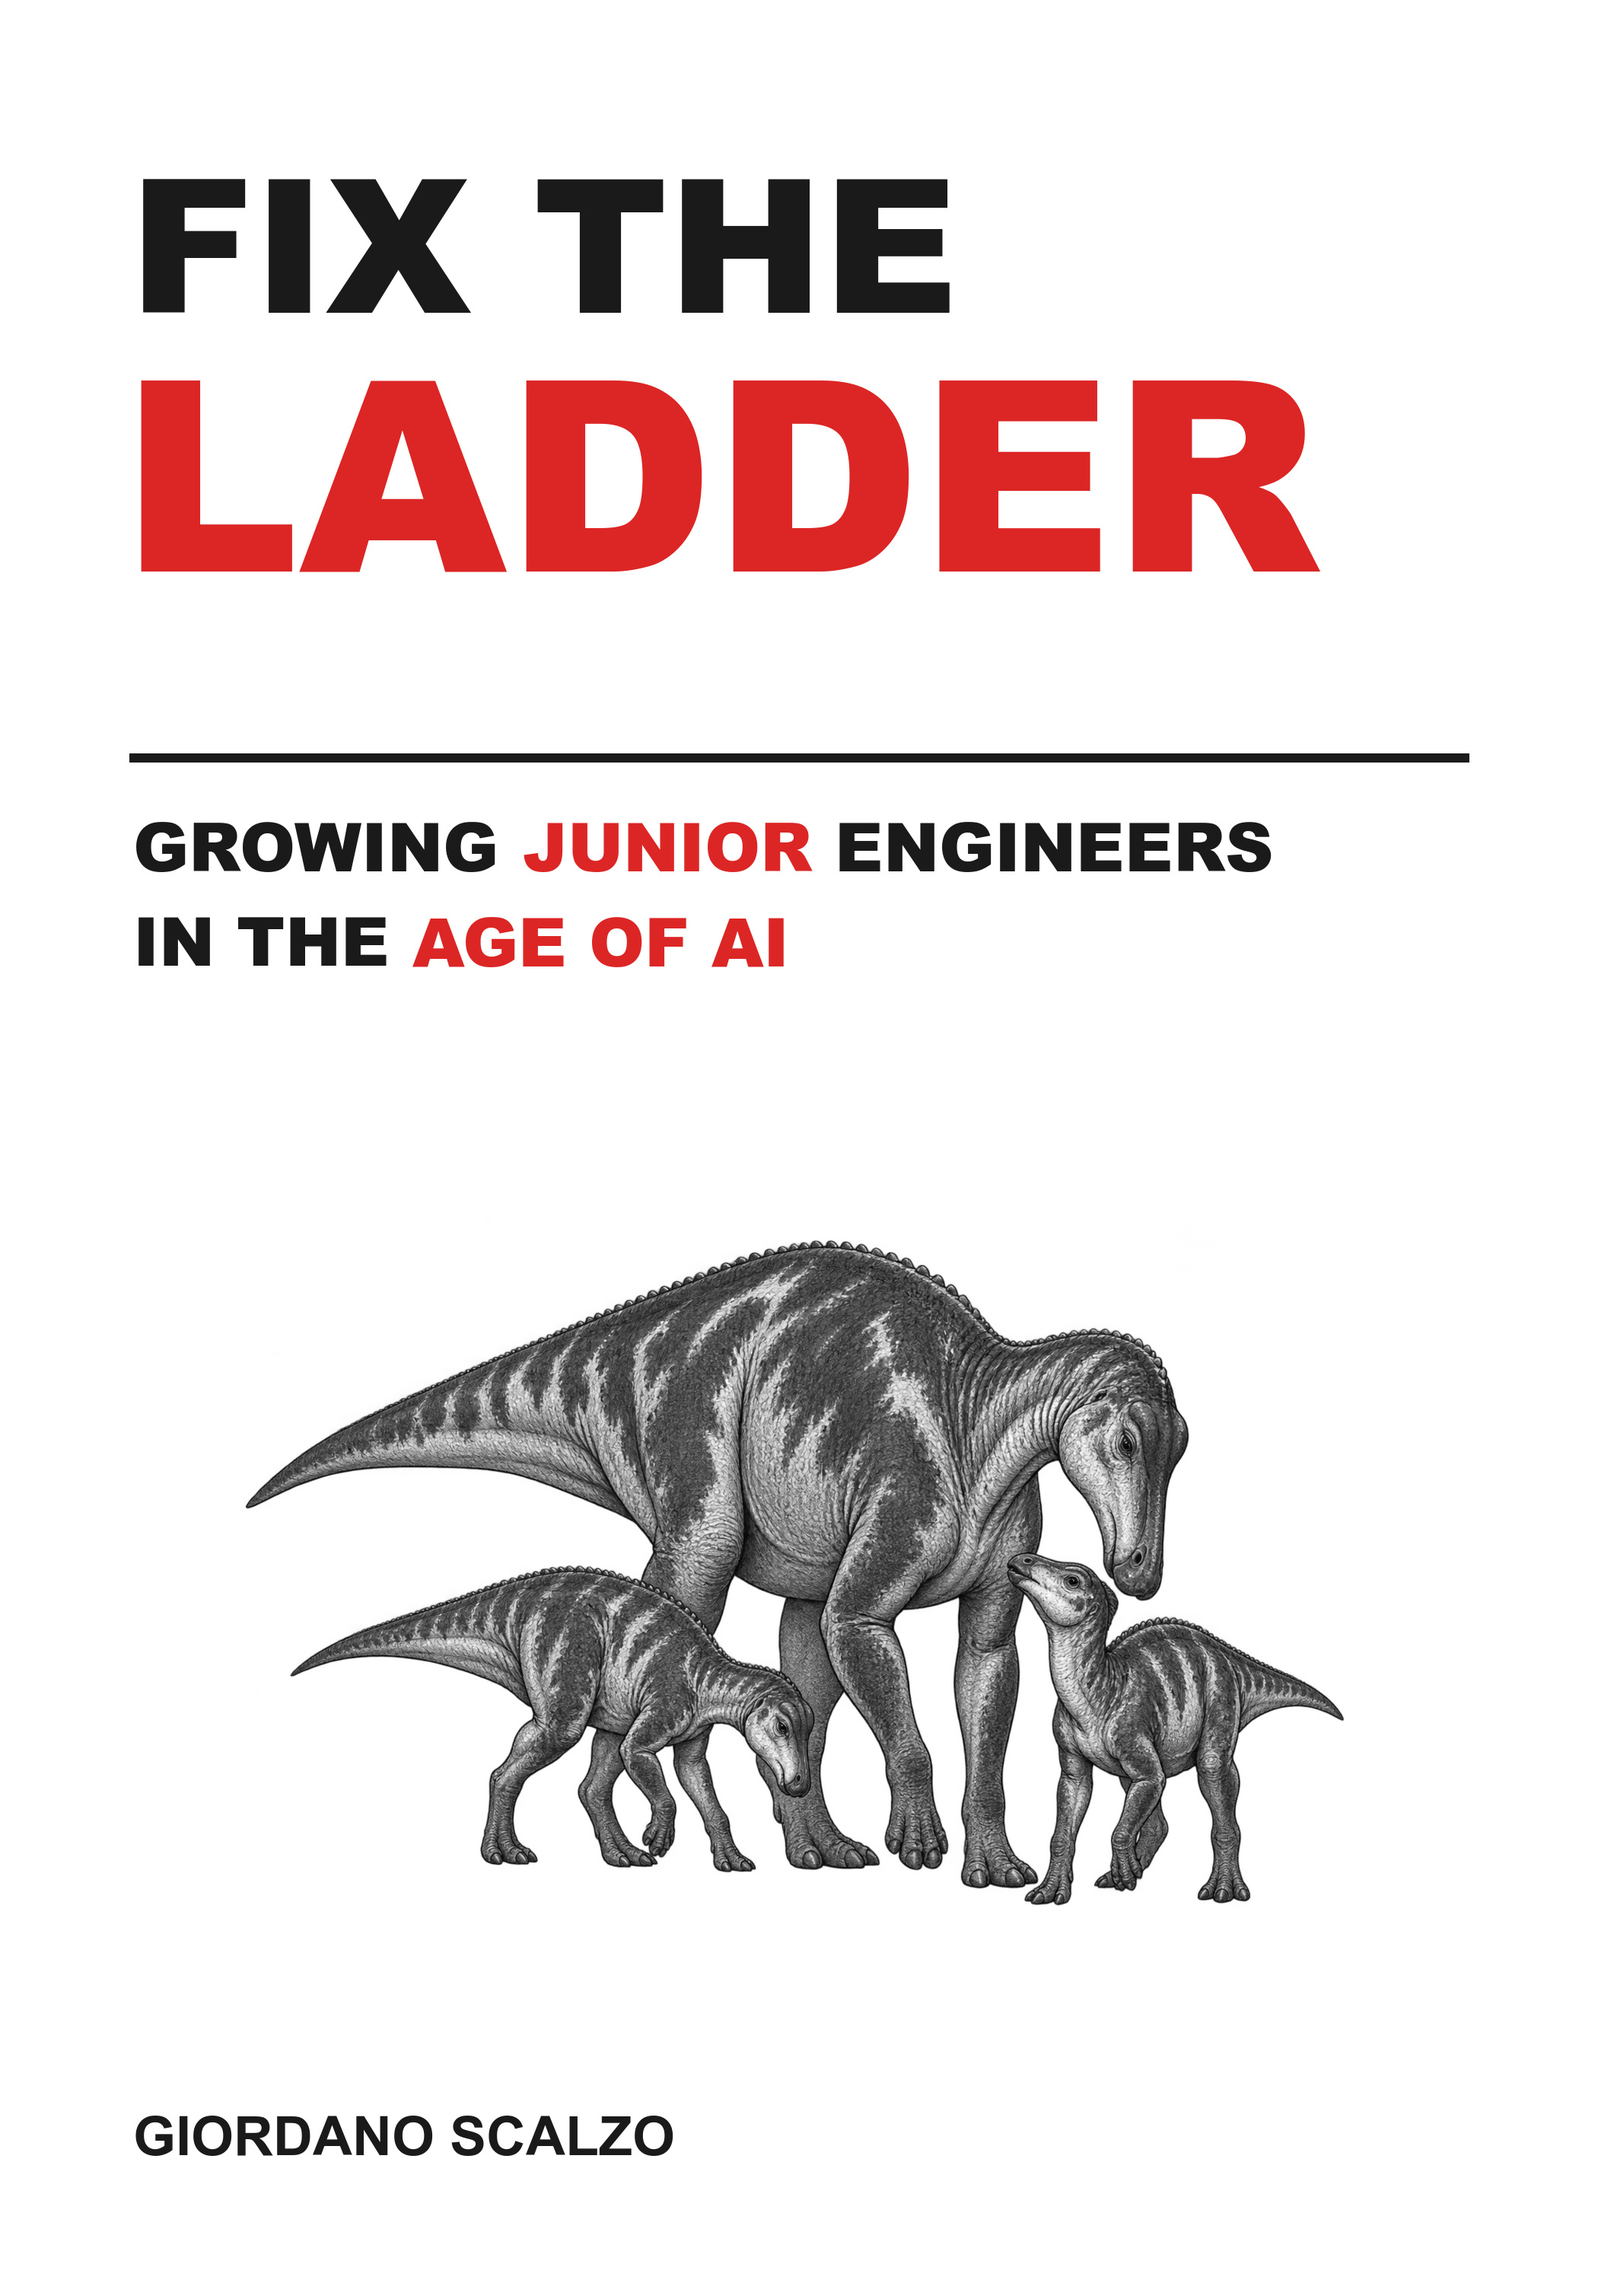
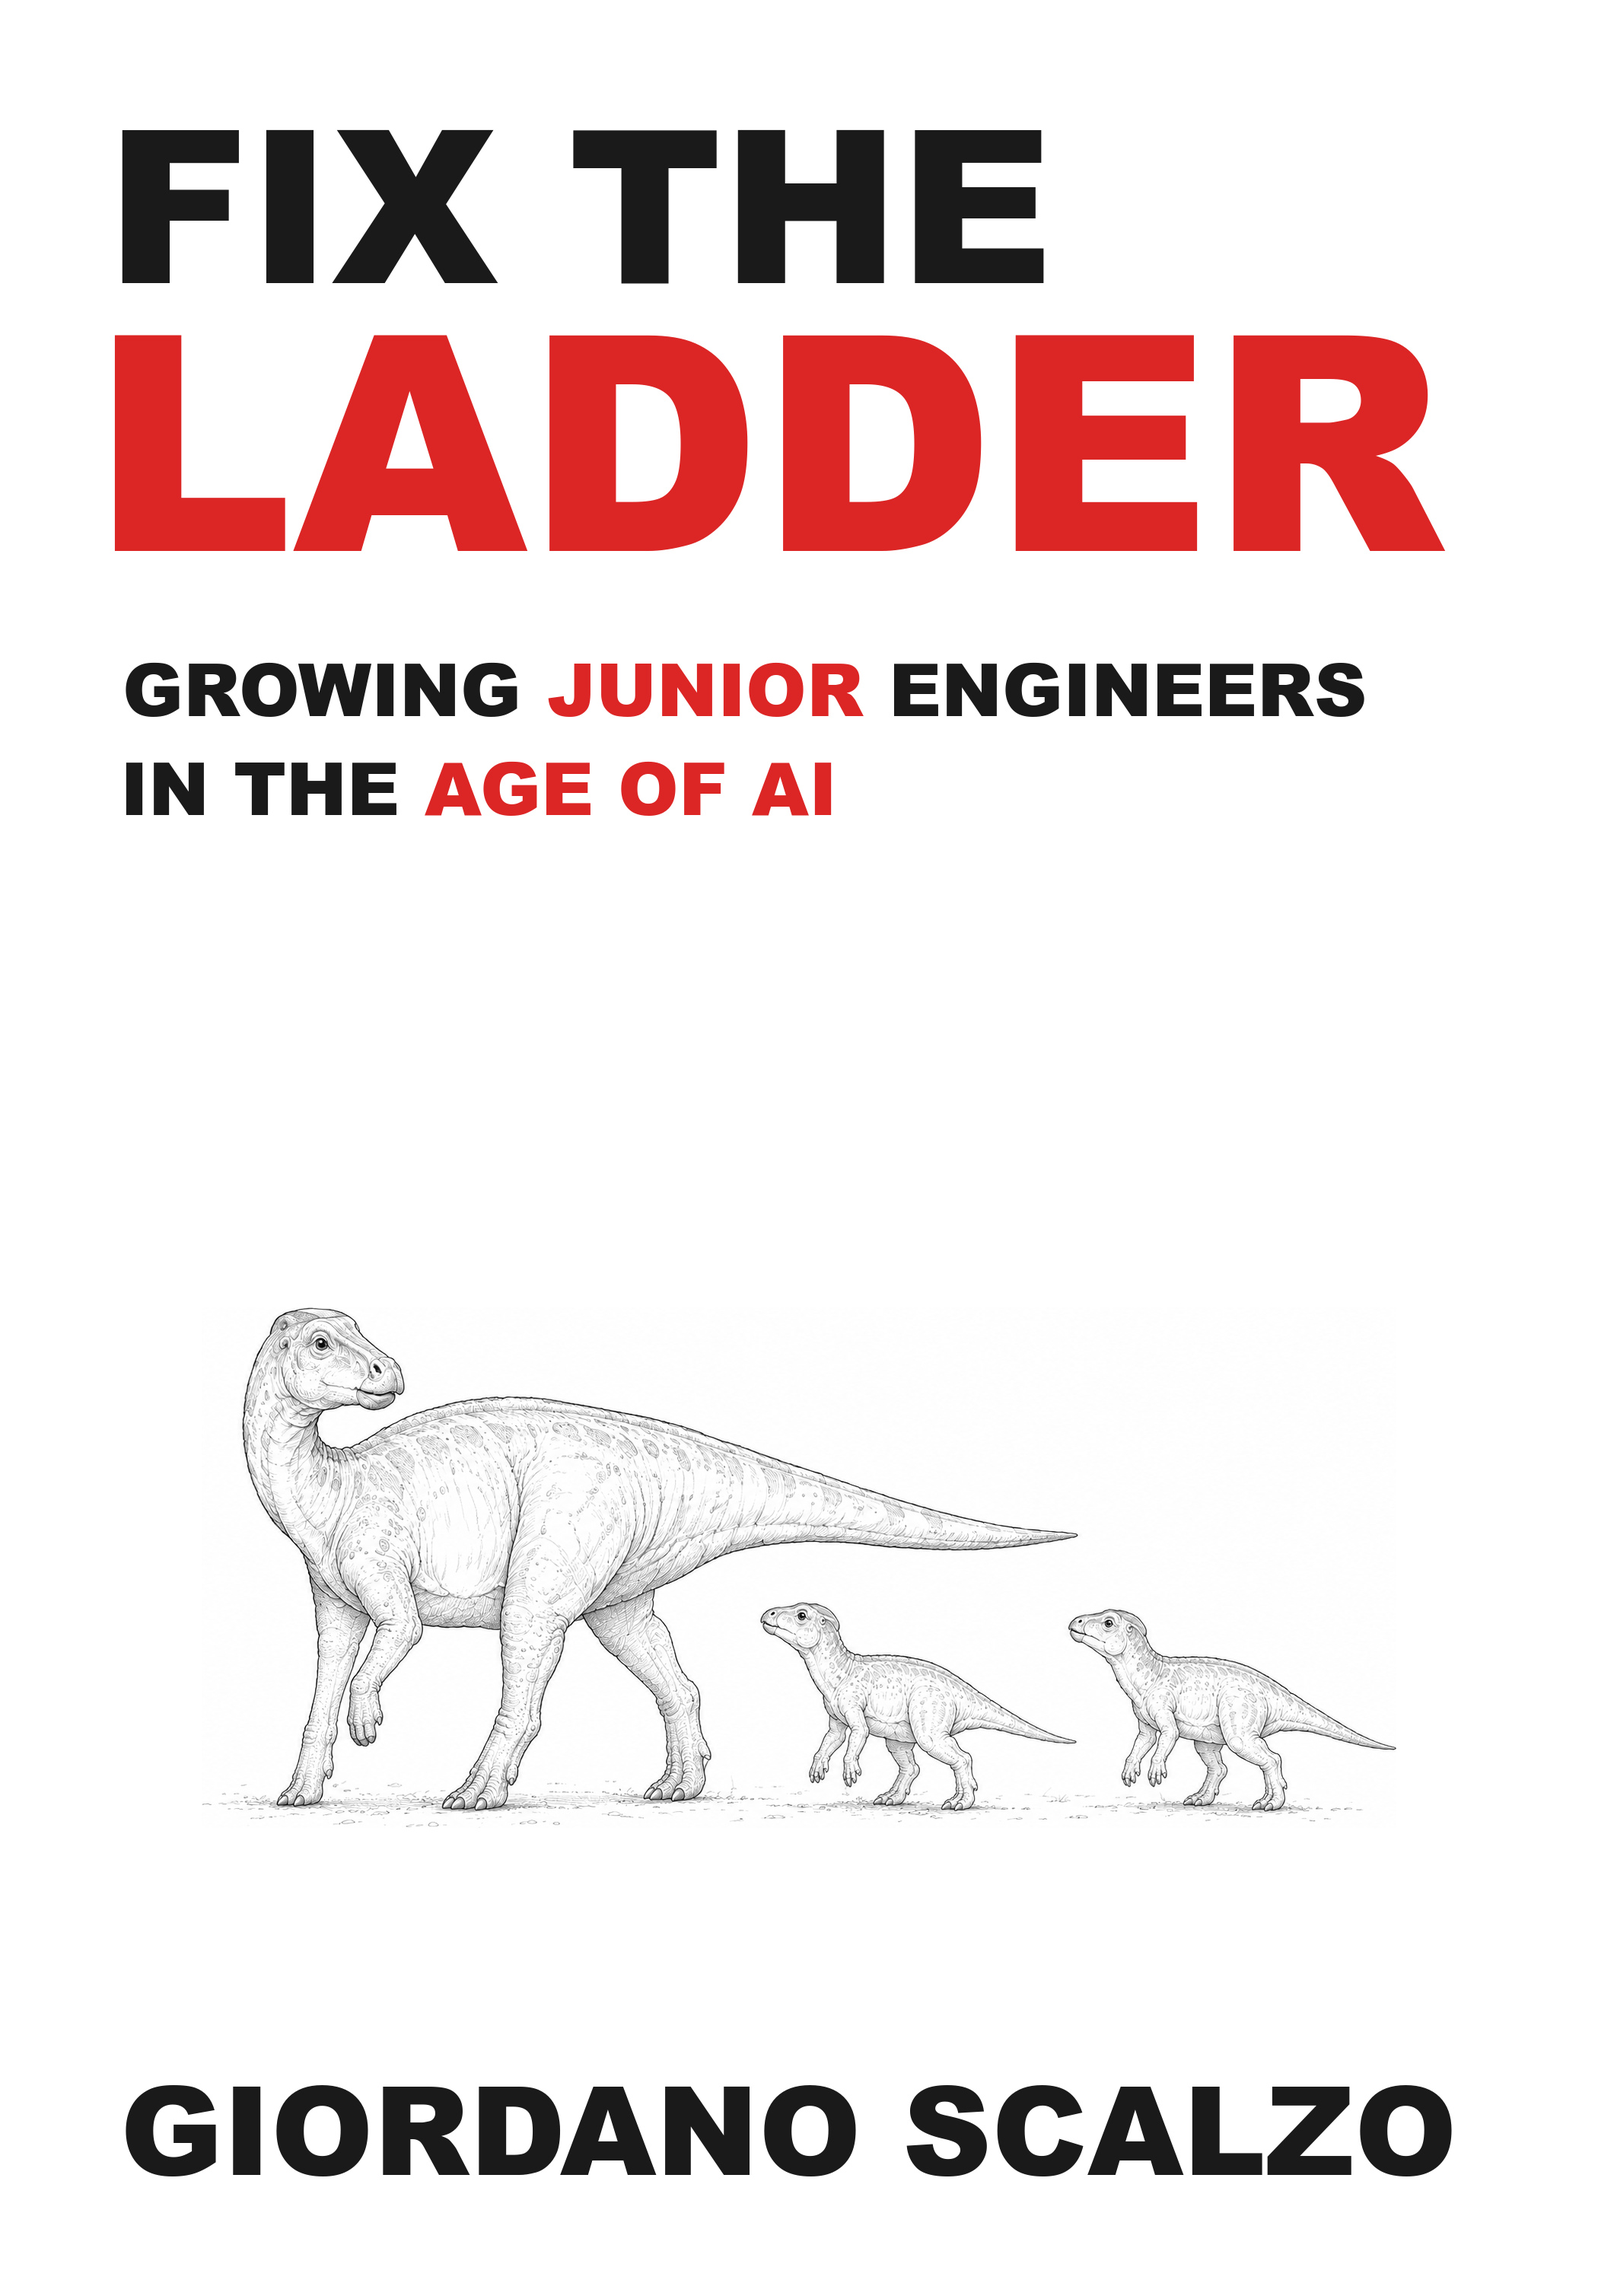
Update Fix the Ladder cover and completion status

diff --git a/content/_index.md b/content/_index.md
@@ -12,7 +12,7 @@ draft = false
 
 <section class="home-book-feature" aria-labelledby="home-book-title">
   <div class="home-book-copy">
-    <p class="section-label">New · Work in progress</p>
+    <p class="section-label">Complete · Available now</p>
     <h2 id="home-book-title">Fix the <em>Ladder</em></h2>
     <p class="home-book-subtitle">Growing Junior Engineers in the Age of AI</p>
     <p class="home-book-summary">A practical field guide for engineering managers and CTOs who want the speed of AI without losing the judgement, debugging skills, and apprenticeship that grow strong engineers.</p>
@@ -33,7 +33,7 @@ draft = false
     <h2 id="home-intro-title">Helping engineering teams build with AI and grow the judgement to own what they ship.</h2>
     <p>I’m Giordano Scalzo, a London-based AI engineering lead with decades of experience building software and growing teams. My work spans mobile apps used by millions, consumer products, and hands-on experiments with coding agents.</p>
     <p>I’m interested in the practical work of AI adoption: deciding what to delegate, checking what comes back, and helping engineers develop their own judgement. I share what I learn through working software, talks, and writing.</p>
-    <p>I’ve written six books on Swift, SwiftUI, and software development. My current book, <a href="https://leanpub.com/fixtheladder">Fix the Ladder</a>, explores growing junior engineers in the age of AI.</p>
+    <p>I’ve written six books on Swift, SwiftUI, and software development. My latest book, <a href="https://leanpub.com/fixtheladder">Fix the Ladder</a>, explores growing junior engineers in the age of AI.</p>
     <div class="home-intro__links">
       <a href="/books/">Books</a>
       <a href="/speaking/">Speaking</a>

diff --git a/content/books.md b/content/books.md
@@ -15,11 +15,11 @@ images = ["/images/books/fix-the-ladder.jpg"]
   <article class="book-entry">
     <img src="/images/books/fix-the-ladder.jpg" alt="Fix the Ladder book cover" />
     <div class="book-entry__copy">
-      <p class="section-label">Current project</p>
+      <p class="section-label">Latest book</p>
       <h2>Fix the Ladder</h2>
       <p>Growing Junior Engineers in the Age of AI. A practical field guide for engineering managers and CTOs who want AI speed without losing engineering judgement.</p>
       <div class="book-meta">
-        <span>Work in progress</span>
+        <span>Complete · Available on Leanpub</span>
         <a href="https://leanpub.com/fixtheladder">Explore on Leanpub ↗</a>
       </div>
     </div>

diff --git a/content/projects.md b/content/projects.md
@@ -26,4 +26,4 @@ Two demos from my November 2025 talk: a macOS QR-code generator and an iOS recei
 
 [Watch the talk and read the lessons](/blog/ai-accelerated-mobile-development-nslondon/)
 
-For the people side of AI adoption, see [Fix the Ladder](https://leanpub.com/fixtheladder), my work-in-progress book about growing junior engineers.
+For the people side of AI adoption, see [Fix the Ladder](https://leanpub.com/fixtheladder), my book about growing junior engineers.
